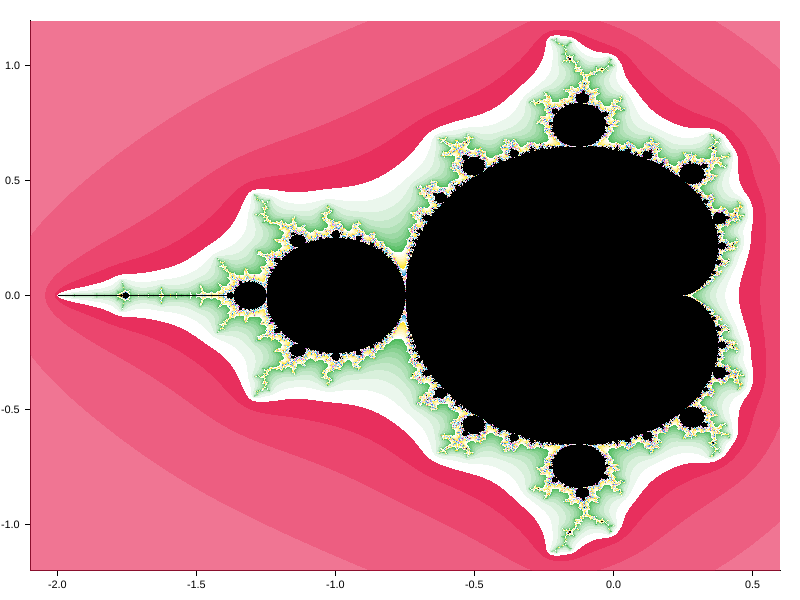
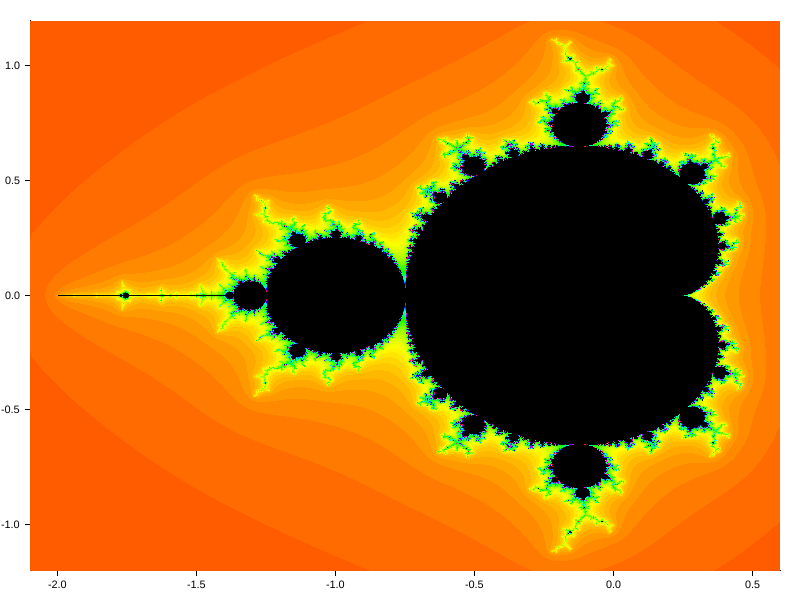
Add hsl color supoort

diff --git a/src/style/color.rs b/src/style/color.rs
@@ -118,3 +118,44 @@ predefined_color!(Yellow, 255, 255, 0, "The predefined yellow color");
 predefined_color!(Cyan, 0, 255, 255, "The predefined cyan color");
 predefined_color!(Magenta, 255, 0, 255, "The predefined magenta color");
 predefined_color!(Transparent, 0, 0, 0, 0.0, "The predefined transparent");
+
+pub struct HSLColor(pub f64, pub f64, pub f64);
+
+impl SimpleColor for HSLColor {
+    fn rgb(&self) -> (u8, u8, u8) {
+        let (h,s,l) = (
+            self.0.min(1.0).max(0.0), 
+            self.1.min(1.0).max(0.0), 
+            self.2.min(1.0).max(0.0), 
+        );
+
+        if s == 0.0 {
+            let value = (l * 255.0).round() as u8;
+            return (value, value, value);
+        }
+
+        let q = if l < 0.5 { l * (1.0 + s) } else { l + s - l * s };
+        let p = 2.0 * l - q;
+
+        let cvt = |mut t| {
+            if t < 0.0 {
+                t += 1.0;
+            }
+            if t > 1.0 {
+                t -= 1.0;
+            }
+            let value = if t < 1.0/6.0 {
+                p + (q - p) * 6.0 * t
+            } else if t < 1.0/2.0 {
+                q
+            } else if t < 2.0 / 3.0 {
+                p + (q - p) * (2.0 / 3.0 -  t)  * 6.0
+            } else {
+                p
+            };
+            return (value * 255.0).round() as u8;
+        };
+
+        return (cvt(h + 1.0 / 3.0), cvt(h), cvt(h - 1.0 / 3.0));
+    }
+}

diff --git a/examples/mandelbrot.rs b/examples/mandelbrot.rs
@@ -26,10 +26,10 @@ fn main() -> Result<(), Box<dyn std::error::Error>> {
     let (pw, ph) = (range.0.end - range.0.start, range.1.end - range.1.start);
     let (xr, yr) = (chart.x_range(), chart.y_range());
 
-    for (x, y, c) in mandelbrot_set(xr, yr, (pw as usize, ph as usize), 200) {
-        if c != 200 {
+    for (x, y, c) in mandelbrot_set(xr, yr, (pw as usize, ph as usize), 100) {
+        if c != 100 {
             plotting_area
-                .draw_pixel((x, y), &Palette99::pick(c / 10).mix((c % 10) as f64 / 10.0))?;
+                .draw_pixel((x, y), &HSLColor(c as f64/100.0, 1.0, 0.5))?;
         } else {
             plotting_area.draw_pixel((x, y), &Black)?;
         }

diff --git a/src/lib.rs b/src/lib.rs
@@ -321,7 +321,7 @@ pub mod prelude {
     pub use crate::style::{
         Black, Blue, Color, Cyan, FontDesc, Green, Magenta, Mixable, Palette, Palette100,
         Palette99, Palette9999, PaletteColor, RGBColor, Red, ShapeStyle, SimpleColor, TextStyle,
-        Transparent, White, Yellow,
+        Transparent, White, Yellow, HSLColor,
     };
 
     pub use crate::element::{

diff --git a/src/style/mod.rs b/src/style/mod.rs
@@ -8,7 +8,7 @@ use std::borrow::Borrow;
 
 pub use color::{
     Black, Blue, Color, Cyan, Green, Magenta, Mixable, PaletteColor, RGBColor, Red, SimpleColor,
-    Transparent, White, Yellow,
+    Transparent, White, Yellow, HSLColor,
 };
 pub use font::{FontDesc, FontError, FontResult};
 pub use palette::*;

diff --git a/src/element/basic_shapes.rs b/src/element/basic_shapes.rs
@@ -2,6 +2,7 @@ use super::{Drawable, PointCollection};
 use crate::drawing::backend::{BackendCoord, DrawingBackend, DrawingErrorKind};
 use crate::style::{ShapeStyle, TextStyle};
 
+/// An element of a single pixel
 pub struct Pixel<'a, Coord> {
     pos: Coord,
     style: ShapeStyle<'a>,
